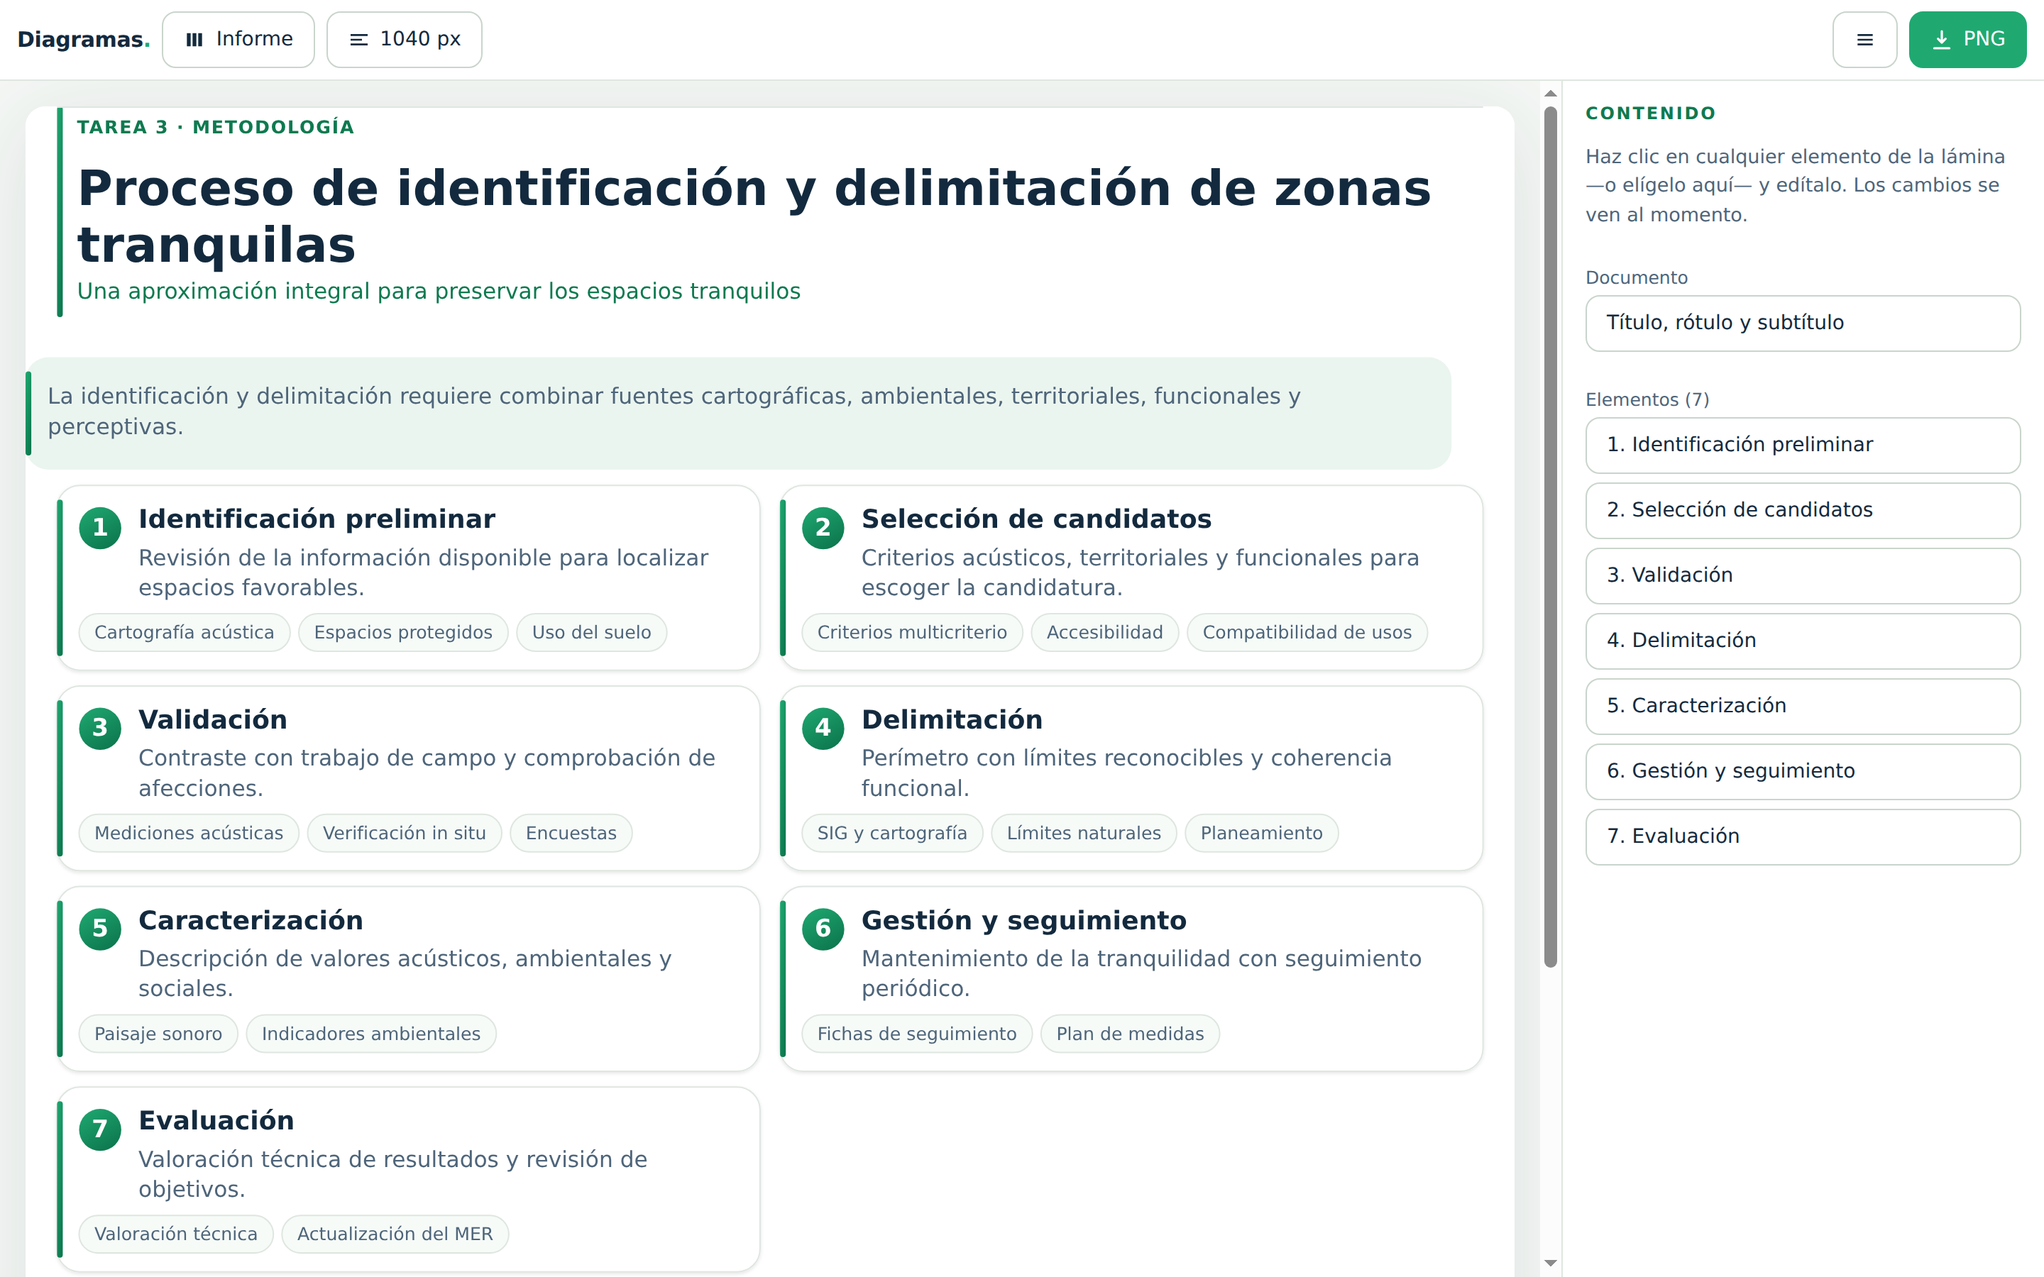
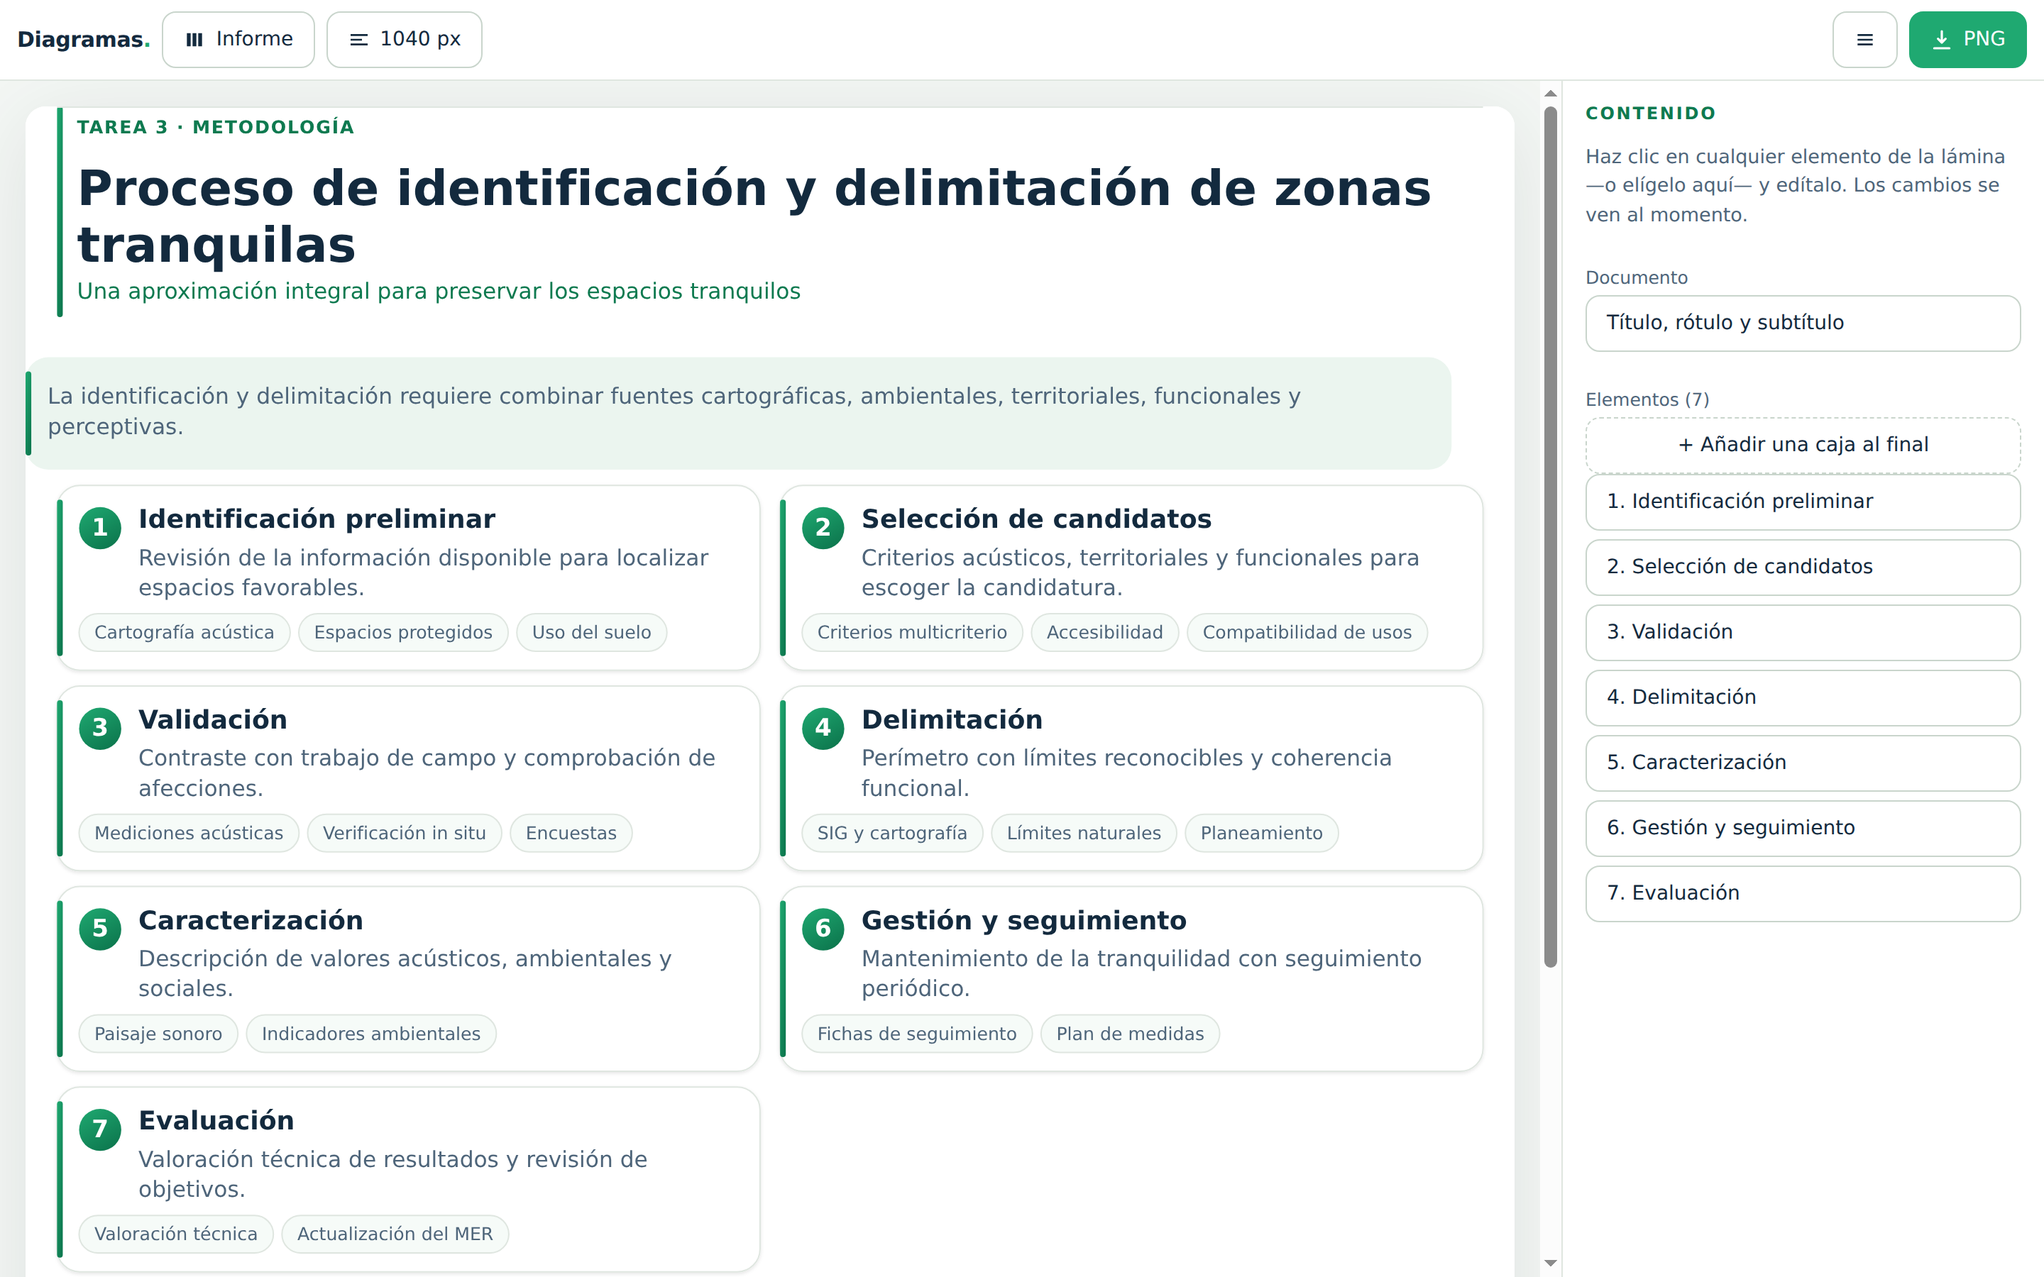
feat(app): anadir/duplicar/eliminar/reordenar cajas con auto-ajuste medido (112 casos estaticos + estructura verificada en la app)

Changed region(s): [[0.7812, 0.3422, 1.0, 0.7156]]

diff --git a/smartart-v2/index.html b/smartart-v2/index.html
@@ -86,6 +86,11 @@ aside h2{font-size:12px;font-weight:600;letter-spacing:1.4px;text-transform:uppe
 #menu h3{font-size:12px;font-weight:600;letter-spacing:1.4px;text-transform:uppercase;color:var(--verdeOsc);margin-bottom:12px}
 #menu .op{display:flex;flex-direction:column;gap:8px}
 #menu .op button{justify-content:flex-start;width:100%}
+#panel .acciones{display:grid;grid-template-columns:repeat(4,1fr);gap:6px;margin-bottom:10px}
+#panel .acciones .btn{padding:8px 4px;justify-content:center;font-size:13px}
+#panel .add-caja{width:100%;justify-content:center;border-style:dashed}
+[data-e].sel > :first-child{stroke:var(--verde);stroke-width:2.5}
+[data-e].sel{filter:drop-shadow(0 0 6px rgba(31,169,113,.35))}
 #toast{position:fixed;bottom:calc(20px + env(safe-area-inset-bottom));left:50%;transform:translateX(-50%) translateY(12px);
   background:var(--tinta);color:#fff;padding:10px 16px;border-radius:10px;font-size:13px;opacity:0;transition:.22s;
   pointer-events:none;z-index:80;max-width:88%;text-align:center}
@@ -909,6 +914,7 @@ aside h2{font-size:12px;font-weight:600;letter-spacing:1.4px;text-transform:uppe
   /* ---------- render + auditoría en vivo ---------- */
   function pintar(){
     const ancho = anchoLienzo();
+    // el documento (sel=-1) no tiene caja: se resalta el hub si el tipo lo tiene
     const r = Motor2.render({ tipo:S.tipo, datos:S.datos, ancho:ancho, logos:LOGOS2, figura:1 });
     const wrap = $('lienzoWrap');
     wrap.innerHTML = r.svg;
@@ -919,6 +925,11 @@ aside h2{font-size:12px;font-weight:600;letter-spacing:1.4px;text-transform:uppe
     const problemas = err.choques.length + err.fuera.length + err.nan.length + err.textoPeso.length + err.aireJusto.length;
     ultimoError = problemas ? err : null;
     if (problemas) console.warn('Auditoría:', err);
+    // resaltar lo que se está editando
+    if (sel !== null){
+      const objetivo = wrap.querySelector('[data-e="' + sel + '"]');
+      if (objetivo) objetivo.classList.add('sel');
+    }
     guardar();
     return problemas;
   }
@@ -935,6 +946,9 @@ aside h2{font-size:12px;font-weight:600;letter-spacing:1.4px;text-transform:uppe
         + '<div class="fld"><label>Elementos (' + (S.datos.nodos||[]).length + ')</label><div id="listaEl"></div></div>';
       const ld = $('selDoc'); if (ld) ld.onclick = ()=>{ sel = -1; panel(); };
       const le = $('listaEl');
+      const bAddFin = document.createElement('button'); bAddFin.className='btn add-caja'; bAddFin.textContent='+ Añadir una caja al final';
+      bAddFin.onclick = ()=>{ S.datos.nodos.push({ label:'Nueva caja', desc:'', subs:[] }); sel=S.datos.nodos.length-1; pintar(); panel(); const f=$('f_label'); if(f){f.focus(); f.select();} toast('Caja añadida · se ajusta sola al texto'); };
+      le.appendChild(bAddFin);
       (S.datos.nodos||[]).forEach((nd,i)=>{
         const b = document.createElement('button'); b.className='btn'; b.style.cssText='width:100%;justify-content:flex-start;margin-bottom:6px;text-align:left';
         b.textContent = (i+1) + '. ' + (nd.label||'(sin texto)');
@@ -954,11 +968,18 @@ aside h2{font-size:12px;font-weight:600;letter-spacing:1.4px;text-transform:uppe
         + (d.tituloCentral !== undefined ? fld('tituloCentral','Texto del centro', d.tituloCentral || '', 'input') : '')
         + '<div class="aviso ok" id="avOk">Todo encaja: 0 solapes, 0 desbordes.</div>';
     } else {
-      const n = S.datos.nodos[sel];
-      p.innerHTML = '<h2>Elemento ' + (sel+1) + '</h2>'
+      const n = S.datos.nodos[sel], total = S.datos.nodos.length;
+      p.innerHTML = '<h2>Elemento ' + (sel+1) + ' de ' + total + '</h2>'
+        + '<div class="acciones">'
+        +   '<button class="btn" id="aSubir" title="Mover antes" ' + (sel===0?'disabled':'') + '>↑</button>'
+        +   '<button class="btn" id="aBajar" title="Mover después" ' + (sel===total-1?'disabled':'') + '>↓</button>'
+        +   '<button class="btn" id="aDup" title="Duplicar">⧉</button>'
+        +   '<button class="btn" id="aDel" title="Eliminar" ' + (total<=1?'disabled':'') + '>🗑</button>'
+        + '</div>'
+        + '<button class="btn add-caja" id="aAdd">+ Añadir una caja después</button>'
         + fld('label','Texto', n.label || '', 'input')
         + fld('desc','Descripción', n.desc || '', 'textarea')
-        + '<div class="fld"><label>Subelementos</label><div class="chips" id="chips"></div></div>';
+        + '<div class="fld"><label>Subelementos (chips)</label><div class="chips" id="chips"></div></div>';
       const cont = $('chips');
       (n.subs||[]).forEach((s,i)=>{
         const c = document.createElement('span'); c.className='ch';
@@ -970,6 +991,13 @@ aside h2{font-size:12px;font-weight:600;letter-spacing:1.4px;text-transform:uppe
       add.onclick = ()=>{ n.subs = n.subs||[]; n.subs.push('Nuevo'); pintar(); panel(); };
       cont.appendChild(add);
     }
+    const bSubir = $('aSubir'), bBajar = $('aBajar'), bDup = $('aDup'), bDel = $('aDel'), bAdd = $('aAdd');
+    if (bSubir) bSubir.onclick = ()=>{ if (sel>0){ const a=S.datos.nodos; const t=a[sel-1]; a[sel-1]=a[sel]; a[sel]=t; sel--; pintar(); panel(); } };
+    if (bBajar) bBajar.onclick = ()=>{ const a=S.datos.nodos; if (sel<a.length-1){ const t=a[sel+1]; a[sel+1]=a[sel]; a[sel]=t; sel++; pintar(); panel(); } };
+    if (bDup) bDup.onclick = ()=>{ const a=S.datos.nodos; a.splice(sel+1,0,clon(a[sel])); sel++; pintar(); panel(); toast('Caja duplicada'); };
+    if (bDel) bDel.onclick = ()=>{ const a=S.datos.nodos; if (a.length>1){ a.splice(sel,1); sel=Math.min(sel,a.length-1); pintar(); panel(); toast('Caja eliminada'); } };
+    if (bAdd) bAdd.onclick = ()=>{ const a=S.datos.nodos; a.splice(sel+1,0,{ label:'Nueva caja', desc:'', subs:[] }); sel++; pintar(); panel(); const f=$('f_label'); if(f){ f.focus(); f.select(); } toast('Caja añadida · se ajusta sola al texto'); };
+
     const av = $('avOk');
     if (av && ultimoError){
       av.className = 'aviso error';

diff --git a/src/smartart2-ui.html b/src/smartart2-ui.html
@@ -86,6 +86,11 @@ aside h2{font-size:12px;font-weight:600;letter-spacing:1.4px;text-transform:uppe
 #menu h3{font-size:12px;font-weight:600;letter-spacing:1.4px;text-transform:uppercase;color:var(--verdeOsc);margin-bottom:12px}
 #menu .op{display:flex;flex-direction:column;gap:8px}
 #menu .op button{justify-content:flex-start;width:100%}
+#panel .acciones{display:grid;grid-template-columns:repeat(4,1fr);gap:6px;margin-bottom:10px}
+#panel .acciones .btn{padding:8px 4px;justify-content:center;font-size:13px}
+#panel .add-caja{width:100%;justify-content:center;border-style:dashed}
+[data-e].sel > :first-child{stroke:var(--verde);stroke-width:2.5}
+[data-e].sel{filter:drop-shadow(0 0 6px rgba(31,169,113,.35))}
 #toast{position:fixed;bottom:calc(20px + env(safe-area-inset-bottom));left:50%;transform:translateX(-50%) translateY(12px);
   background:var(--tinta);color:#fff;padding:10px 16px;border-radius:10px;font-size:13px;opacity:0;transition:.22s;
   pointer-events:none;z-index:80;max-width:88%;text-align:center}
@@ -145,6 +150,7 @@ aside h2{font-size:12px;font-weight:600;letter-spacing:1.4px;text-transform:uppe
   /* ---------- render + auditoría en vivo ---------- */
   function pintar(){
     const ancho = anchoLienzo();
+    // el documento (sel=-1) no tiene caja: se resalta el hub si el tipo lo tiene
     const r = Motor2.render({ tipo:S.tipo, datos:S.datos, ancho:ancho, logos:LOGOS2, figura:1 });
     const wrap = $('lienzoWrap');
     wrap.innerHTML = r.svg;
@@ -155,6 +161,11 @@ aside h2{font-size:12px;font-weight:600;letter-spacing:1.4px;text-transform:uppe
     const problemas = err.choques.length + err.fuera.length + err.nan.length + err.textoPeso.length + err.aireJusto.length;
     ultimoError = problemas ? err : null;
     if (problemas) console.warn('Auditoría:', err);
+    // resaltar lo que se está editando
+    if (sel !== null){
+      const objetivo = wrap.querySelector('[data-e="' + sel + '"]');
+      if (objetivo) objetivo.classList.add('sel');
+    }
     guardar();
     return problemas;
   }
@@ -171,6 +182,9 @@ aside h2{font-size:12px;font-weight:600;letter-spacing:1.4px;text-transform:uppe
         + '<div class="fld"><label>Elementos (' + (S.datos.nodos||[]).length + ')</label><div id="listaEl"></div></div>';
       const ld = $('selDoc'); if (ld) ld.onclick = ()=>{ sel = -1; panel(); };
       const le = $('listaEl');
+      const bAddFin = document.createElement('button'); bAddFin.className='btn add-caja'; bAddFin.textContent='+ Añadir una caja al final';
+      bAddFin.onclick = ()=>{ S.datos.nodos.push({ label:'Nueva caja', desc:'', subs:[] }); sel=S.datos.nodos.length-1; pintar(); panel(); const f=$('f_label'); if(f){f.focus(); f.select();} toast('Caja añadida · se ajusta sola al texto'); };
+      le.appendChild(bAddFin);
       (S.datos.nodos||[]).forEach((nd,i)=>{
         const b = document.createElement('button'); b.className='btn'; b.style.cssText='width:100%;justify-content:flex-start;margin-bottom:6px;text-align:left';
         b.textContent = (i+1) + '. ' + (nd.label||'(sin texto)');
@@ -190,11 +204,18 @@ aside h2{font-size:12px;font-weight:600;letter-spacing:1.4px;text-transform:uppe
         + (d.tituloCentral !== undefined ? fld('tituloCentral','Texto del centro', d.tituloCentral || '', 'input') : '')
         + '<div class="aviso ok" id="avOk">Todo encaja: 0 solapes, 0 desbordes.</div>';
     } else {
-      const n = S.datos.nodos[sel];
-      p.innerHTML = '<h2>Elemento ' + (sel+1) + '</h2>'
+      const n = S.datos.nodos[sel], total = S.datos.nodos.length;
+      p.innerHTML = '<h2>Elemento ' + (sel+1) + ' de ' + total + '</h2>'
+        + '<div class="acciones">'
+        +   '<button class="btn" id="aSubir" title="Mover antes" ' + (sel===0?'disabled':'') + '>↑</button>'
+        +   '<button class="btn" id="aBajar" title="Mover después" ' + (sel===total-1?'disabled':'') + '>↓</button>'
+        +   '<button class="btn" id="aDup" title="Duplicar">⧉</button>'
+        +   '<button class="btn" id="aDel" title="Eliminar" ' + (total<=1?'disabled':'') + '>🗑</button>'
+        + '</div>'
+        + '<button class="btn add-caja" id="aAdd">+ Añadir una caja después</button>'
         + fld('label','Texto', n.label || '', 'input')
         + fld('desc','Descripción', n.desc || '', 'textarea')
-        + '<div class="fld"><label>Subelementos</label><div class="chips" id="chips"></div></div>';
+        + '<div class="fld"><label>Subelementos (chips)</label><div class="chips" id="chips"></div></div>';
       const cont = $('chips');
       (n.subs||[]).forEach((s,i)=>{
         const c = document.createElement('span'); c.className='ch';
@@ -206,6 +227,13 @@ aside h2{font-size:12px;font-weight:600;letter-spacing:1.4px;text-transform:uppe
       add.onclick = ()=>{ n.subs = n.subs||[]; n.subs.push('Nuevo'); pintar(); panel(); };
       cont.appendChild(add);
     }
+    const bSubir = $('aSubir'), bBajar = $('aBajar'), bDup = $('aDup'), bDel = $('aDel'), bAdd = $('aAdd');
+    if (bSubir) bSubir.onclick = ()=>{ if (sel>0){ const a=S.datos.nodos; const t=a[sel-1]; a[sel-1]=a[sel]; a[sel]=t; sel--; pintar(); panel(); } };
+    if (bBajar) bBajar.onclick = ()=>{ const a=S.datos.nodos; if (sel<a.length-1){ const t=a[sel+1]; a[sel+1]=a[sel]; a[sel]=t; sel++; pintar(); panel(); } };
+    if (bDup) bDup.onclick = ()=>{ const a=S.datos.nodos; a.splice(sel+1,0,clon(a[sel])); sel++; pintar(); panel(); toast('Caja duplicada'); };
+    if (bDel) bDel.onclick = ()=>{ const a=S.datos.nodos; if (a.length>1){ a.splice(sel,1); sel=Math.min(sel,a.length-1); pintar(); panel(); toast('Caja eliminada'); } };
+    if (bAdd) bAdd.onclick = ()=>{ const a=S.datos.nodos; a.splice(sel+1,0,{ label:'Nueva caja', desc:'', subs:[] }); sel++; pintar(); panel(); const f=$('f_label'); if(f){ f.focus(); f.select(); } toast('Caja añadida · se ajusta sola al texto'); };
+
     const av = $('avOk');
     if (av && ultimoError){
       av.className = 'aviso error';

diff --git a/scripts/verificar-app2.js b/scripts/verificar-app2.js
@@ -82,6 +82,40 @@ const sleep = ms => new Promise(r => setTimeout(r, ms));
     }
   }
 
+  // --- estructura: añadir 5 cajas, auditar, eliminar hasta 1, auditar ---
+  await send('Emulation.setDeviceMetricsOverride', { width: 1280, height: 900, deviceScaleFactor: 1, mobile: false });
+  await send('Page.navigate', { url: 'file://' + (process.argv[2] || path.join(RAIZ, 'smartart-v2', 'index.html')) });
+  await sleep(1500);
+  console.log('\n  ESTRUCTURA (añadir / quitar cajas):');
+  const estructura = await ev(`(async function(){
+    var log=[];
+    function medir(){ var svg=document.querySelector('#lienzoWrap svg'); var e=Motor2.auditar(svg,{aireMin:3});
+      return {cajas:(window.__S().datos.nodos||[]).length, textos:svg.querySelectorAll('text').length,
+        choques:e.choques.length, fuera:e.fuera.length, nan:e.nan.length, aire:e.aireJusto.length}; }
+    window.__cambiarTipo('pasos');
+    for (var i=0;i<5;i++){
+      document.querySelector('#lienzoWrap [data-e]').dispatchEvent(new MouseEvent('click',{bubbles:true}));
+      var b=document.getElementById('aAdd'); if(!b) return JSON.stringify({error:'sin botón añadir'});
+      b.click();
+      await new Promise(r=>setTimeout(r,220));
+      log.push(Object.assign({paso:'+'+i}, medir()));
+    }
+    for (var j=0;j<10;j++){
+      var d=document.getElementById('aDel'); if(!d || d.disabled) break;
+      d.click(); await new Promise(r=>setTimeout(r,220));
+      log.push(Object.assign({paso:'-'+j}, medir()));
+    }
+    return JSON.stringify(log);
+  })()`);
+  const est = typeof estructura === 'string' ? JSON.parse(estructura) : estructura;
+  if (est.error) { console.log('    ✗ ' + est.error); fallos++; }
+  else est.forEach(p => {
+    const malo = p.choques || p.fuera || p.nan || p.aire || p.cajas < 1;
+    if (malo) fallos++;
+    console.log('    ' + (malo ? '✗' : '·') + ' ' + String(p.paso).padEnd(4) + ' cajas ' + String(p.cajas).padStart(2) + ' textos ' + String(p.textos).padStart(3) +
+      ' | choques ' + p.choques + ' fuera ' + p.fuera + ' nan ' + p.nan + ' aire ' + p.aire);
+  });
+
   // --- edición real: cambiar el título y ver que la lámina cambia ---
   await send('Emulation.setDeviceMetricsOverride', { width: 1440, height: 900, deviceScaleFactor: 1, mobile: false });
   await send('Page.navigate', { url: 'file://' + (process.argv[2] || path.join(RAIZ, 'smartart-v2', 'index.html')) });

diff --git a/scripts/verificar-v2-estatico.js b/scripts/verificar-v2-estatico.js
@@ -54,5 +54,29 @@ TIPOS.forEach(tipo => {
     if (errs.length) { console.log('  ✗ ' + tipo.padEnd(10) + '@' + String(ancho).padStart(4) + ' → ' + errs.join(' · ')); fallos++; }
   });
 });
-console.log('\n' + casos + ' casos · ' + (fallos ? fallos + ' con problema' : 'TODO OK ✅'));
+// --- casos extremos: 1, 3 y 12 cajas (auto-adaptación al contenido) ---
+TIPOS.forEach(tipo => {
+  [1, 3, 12].forEach(n => {
+    [390, 900, 1440].forEach(ancho => {
+      casos++;
+      const datos = JSON.parse(JSON.stringify(E[tipo]));
+      datos.nodos = Array.from({ length: n }, (_, i) => ({ label: 'Caja ' + (i + 1) + ' con texto bastante largo para forzar el ajuste', desc: 'Descripción de la caja número ' + (i + 1) + ' que también ocupa su espacio.', subs: ['uno', 'dos', 'tres'], icono: 'lupa' }));
+      const errs = [];
+      let r;
+      try { r = M.render({ tipo, datos, ancho, logos: G, figura: 1 }); }
+      catch (e) { console.log('  ✗ ' + tipo + ' con ' + n + ' cajas @' + ancho + ' → EXCEPCIÓN: ' + e.message); fallos++; return; }
+      if (/NaN|undefined/.test(r.svg)) errs.push('NaN/undefined');
+      const vb = /viewBox="0 0 ([\d.]+) ([\d.]+)"/.exec(r.svg);
+      if (vb) {
+        const W = +vb[1], H = +vb[2];
+        const fuera = [];
+        atributos(r.svg, 'x').forEach(x => { if (x < -1 || x > W + 1) fuera.push('x=' + x); });
+        atributos(r.svg, 'y').forEach(y => { if (y < -1 || y > H + 1) fuera.push('y=' + y); });
+        if (fuera.length) errs.push(fuera.length + ' coordenadas fuera: ' + fuera.slice(0, 3).join(','));
+      } else errs.push('sin viewBox');
+      if (errs.length) { console.log('  ✗ ' + (tipo + ' ×' + n + ' cajas').padEnd(26) + '@' + String(ancho).padStart(4) + ' → ' + errs.join(' · ')); fallos++; }
+    });
+  });
+});
+console.log('\n' + casos + ' casos (incluye 1/3/12 cajas por tipo) · ' + (fallos ? fallos + ' con problema' : 'TODO OK ✅'));
 process.exit(fallos ? 1 : 0);

diff --git a/scripts/muestras-v2.js b/scripts/muestras-v2.js
@@ -44,6 +44,15 @@ const sleep = ms => new Promise(r => setTimeout(r, ms));
     return nombre;
   };
   await shot('app-desktop-informe', 1440, 900, false);
+  // captura con un elemento seleccionado (se ve el panel de acciones)
+  await ev('window.__cambiarTipo("pasos")'); await sleep(400);
+  await ev('document.querySelectorAll("#lienzoWrap [data-e]")[1].dispatchEvent(new MouseEvent("click",{bubbles:true}))'); await sleep(500);
+  await send('Page.captureScreenshot', { format: 'png' }).then(s => fs.writeFileSync(path.join(OUT, 'app-panel-elemento.png'), Buffer.from(s.data, 'base64')));
+  // captura con muchas cajas (auto-adaptación)
+  await ev(`(function(){ var S=window.__S(); S.datos.nodos=[]; for(var i=1;i<=12;i++) S.datos.nodos.push({label:'Caja '+i+' con un texto largo que obliga a que la tarjeta crezca sola', desc:'Descripción de la caja '+i+'.', subs:['uno','dos']}); window.__cambiarTipo(S.tipo); })()`); await sleep(600);
+  await ev(`(function(){ var S=window.__S(); S.datos.nodos=[]; for(var i=1;i<=12;i++) S.datos.nodos.push({label:'Caja '+i+' con un texto largo que obliga a que la tarjeta crezca sola', desc:'Descripción de la caja '+i+'.', subs:['uno','dos']}); })()`);
+  await ev('document.getElementById("bAncho").click()'); await sleep(700);
+  await send('Page.captureScreenshot', { format: 'png' }).then(s => fs.writeFileSync(path.join(OUT, 'app-12-cajas.png'), Buffer.from(s.data, 'base64')));
   await ev('window.__cambiarTipo("radial3")'); await sleep(500);
   await send('Page.captureScreenshot', { format: 'png' }).then(s => fs.writeFileSync(path.join(OUT, 'app-desktop-radial3.png'), Buffer.from(s.data, 'base64')));
   await ev('document.getElementById("bTipo").click()'); await sleep(700);
